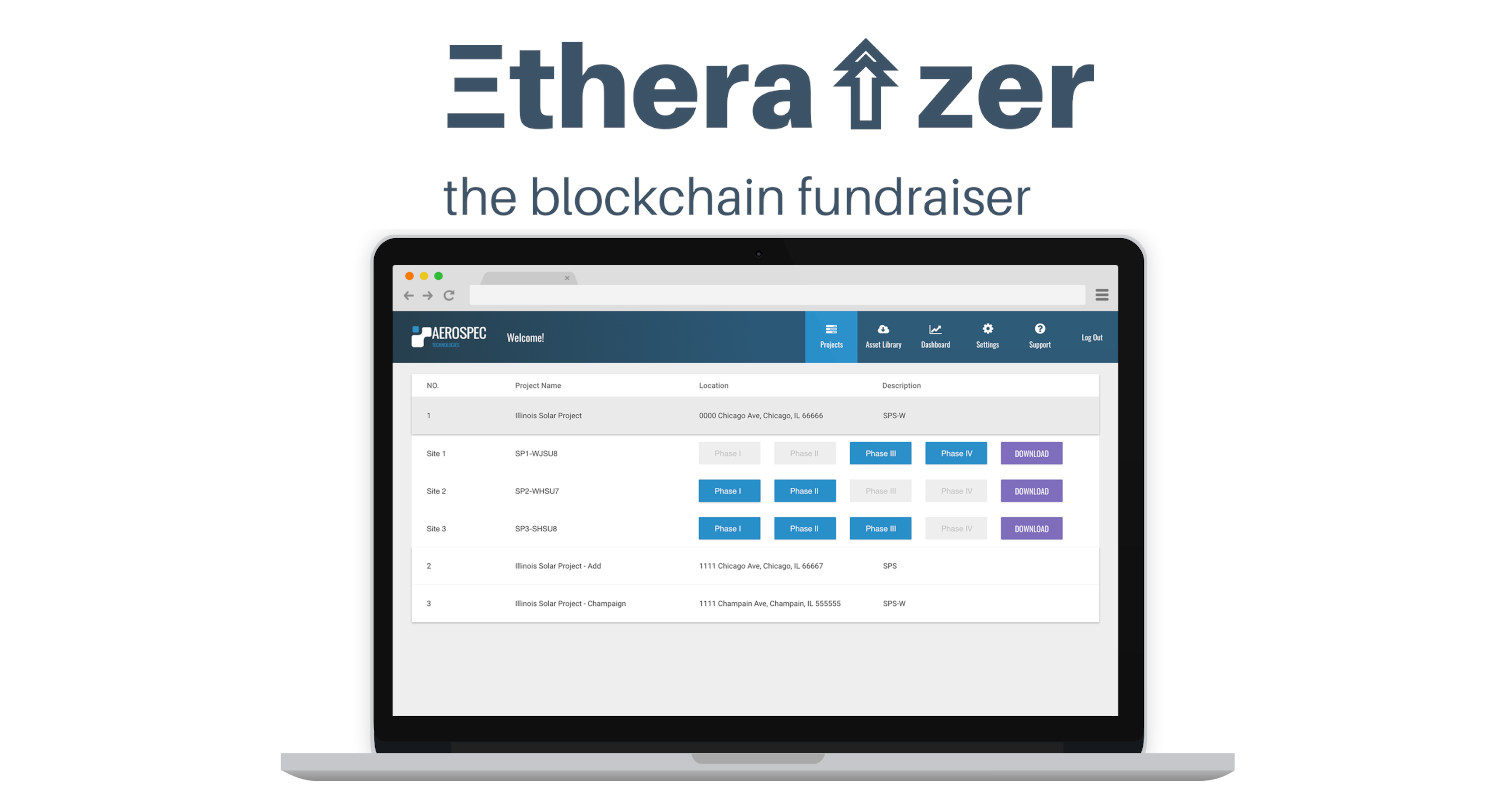
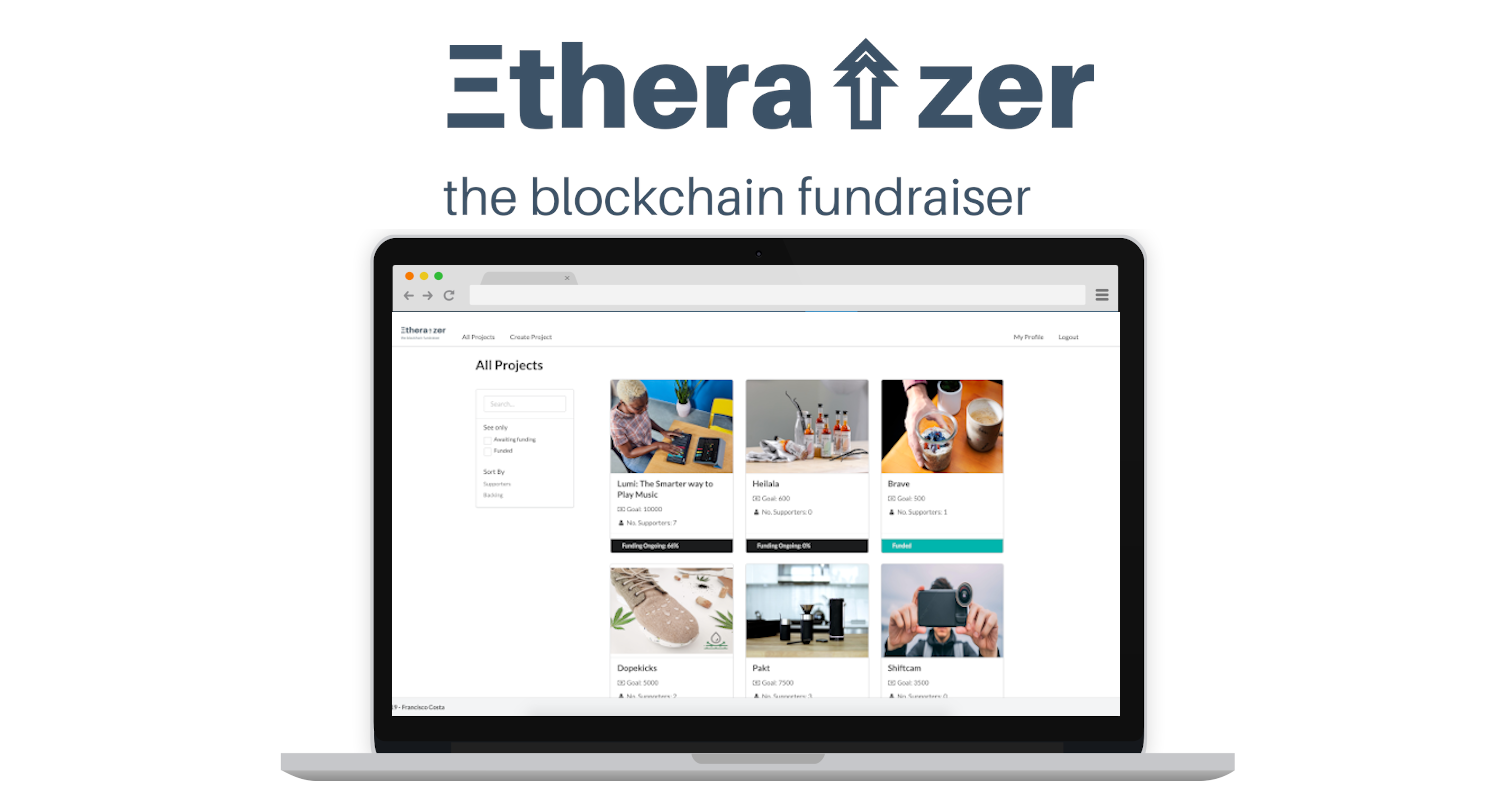
Added new landing hero

Changed region(s): [[0.2453, 0.375, 0.7667, 0.875]]

diff --git a/.next/static/runtime/webpack.js b/.next/static/runtime/webpack.js
@@ -112,7 +112,7 @@
 /******/
 /******/ 	var hotApplyOnUpdate = true;
 /******/ 	// eslint-disable-next-line no-unused-vars
-/******/ 	var hotCurrentHash = "0176c663143fed142fd0";
+/******/ 	var hotCurrentHash = "228a43076dbd4c6cf4b5";
 /******/ 	var hotRequestTimeout = 10000;
 /******/ 	var hotCurrentModuleData = {};
 /******/ 	var hotCurrentChildModule;
